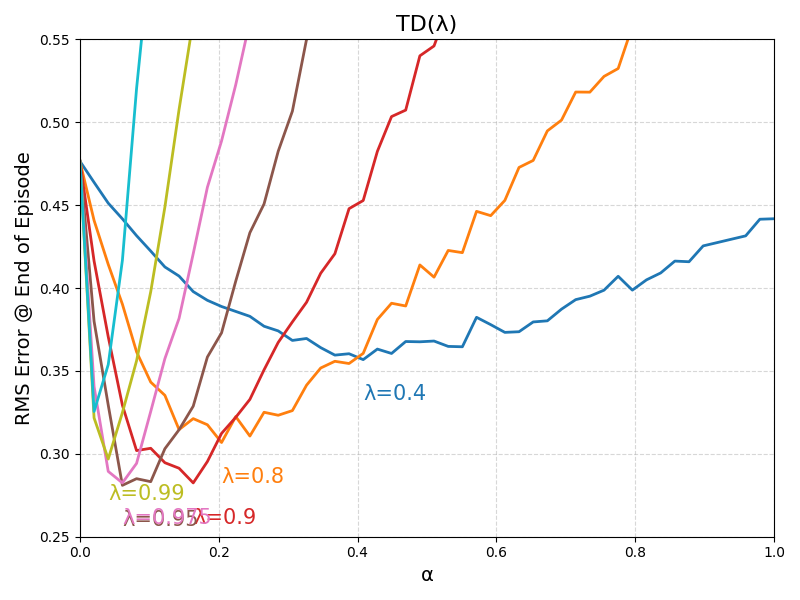
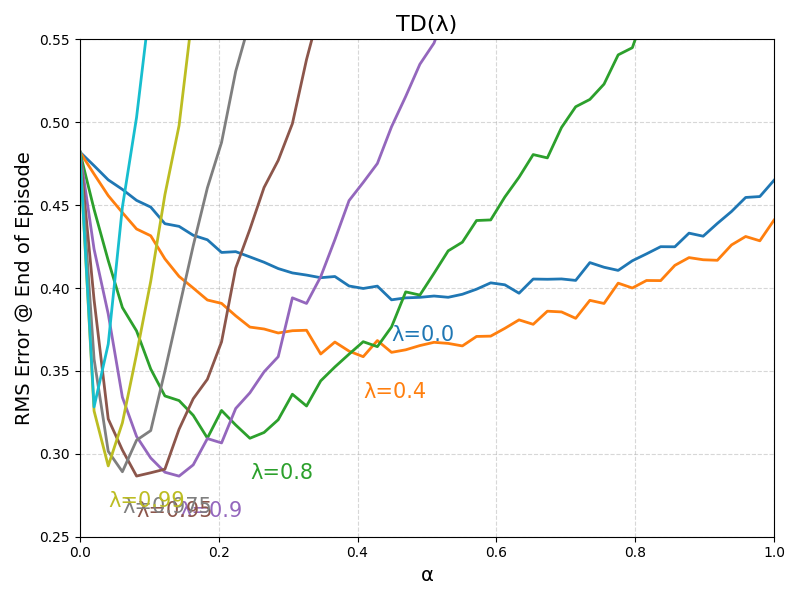
WIP: implemented offline lambda-return algorithm. Complete fig 12.6 experiment.

diff --git a/eligibility_traces/examples_fig_12.6.py b/eligibility_traces/examples_fig_12.6.py
@@ -1,7 +1,7 @@
 """
     Run the experiment shown on Fig 12.6
 """
-
+from joblib import Parallel, delayed
 from itertools import product
 from tqdm import tqdm
 import numpy as np
@@ -126,89 +126,224 @@ class TD_lambda:
         # Update weights
         self.w = self.w + self.alpha * tde * self.z
 
-def td_lamba_figure(
+
+class OfflineLambdaReturn:
+    def __init__(
+            self,
+            gamma: float,
+            alpha: float,
+            lam: float,
+            n_states: int
+    ):
+        assert 0 <= lam <= 1, f'Expected: 0 <= lam <= 1, got lam={lam}'
+        assert 0 <= alpha <= 1, f'Expected: 0 <= alpha <= 1, got lam={alpha}'
+        assert 0 <= gamma <= 1, f'Expected: 0 <= gamma <= 1, got lam={gamma}'
+        assert n_states > 0
+
+        self.n_states = n_states
+        self.gamma = gamma
+        self.alpha = alpha
+        self.lam = lam
+        self.w = None
+        self.reset_weights()
+        self.t = 0
+        self.buffer = []
+
+    def reset_weights(self):
+        self.w = np.ones(self.n_states, dtype=np.float32) * 0.5 # Per example 7.1
+
+    def reset(self):
+        self.t = 0
+        self.buffer.clear()
+
+    def v_fn(self, s):
+        x = feature_extractor(s, self.n_states)
+        return np.dot(x, self.w)
+
+    def step(self, s, r, sp, done):
+        self.buffer.append((s, r, sp, done))
+        if done:
+            self.learn()
+            self.buffer.clear()
+
+    def learn(self):
+        T = len(self.buffer)
+
+        def Gt_fn(t):
+            assert t >= 0
+
+            if t < T:
+                return sum(
+                    [(self.gamma ** i) * r for i, (s, r, sp, done) in
+                     enumerate(self.buffer[t:])]
+                )
+            else:
+                return 0.
+
+        def Gt_n_fn(t, n):
+            Gt_r = sum([
+                (self.gamma ** i) * r
+                for i, (s, r, sp, done) in enumerate(self.buffer[t:t + n])]
+            )
+
+            return Gt_r + (self.gamma ** n) * self.v_fn(self.buffer[t + n][0])
+
+
+        for t in range(T):
+
+            # ---- (12.3) ----
+            Gtlam = (1. - self.lam) * sum(
+                [
+                    ((self.lam) ** (n - 1)) * Gt_n_fn(t, n)
+                    for n in range(1, T - t)
+                ]
+            ) + (self.lam ** (T - t - 1)) * Gt_fn(t)
+            # --------------
+
+            s = self.buffer[t][0]
+            v = self.v_fn(s)
+            grad_w = feature_extractor(s, n_states=self.n_states)
+            self.w += self.alpha * (Gtlam - v) * grad_w
+
+
+def run_one_experiment(model_type: str, alpha, lam, n_states, n_episodes, true_values, gamma=0.99):
+    """
+    Run exactly ONE “experiment”:
+    - instantiate a fresh MRPX environment
+    - instantiate an OfflineLambdaReturn with (alpha, lam)
+    - run for n_episodes, collecting RMS error at episode end
+    - return the *average* RMS‐error over those n_episodes
+    """
+    env = MRPX(n_states)
+
+    if model_type == 'offline_lambda':
+        estimator = OfflineLambdaReturn(
+            alpha=alpha,
+            lam=lam,
+            gamma=gamma,
+            n_states=n_states + 1  # +1 if MRPX reserves an extra terminal index
+        )
+
+    elif model_type == 'td_lambda':
+        estimator = TD_lambda(
+            alpha=alpha,
+            lam=lam,
+            gamma=gamma,
+            n_states=n_states + 1  # +1 for terminal in MRPX
+        )
+    else:
+        raise NotImplemented
+
+    rms_errors = []
+    for _ in range(n_episodes):
+        # pick a random start state in [0 .. n_states‐1]
+        sinit = np.random.randint(0, n_states)
+        s = env.reset(initial_state=sinit)
+        done = False
+
+        while not done:
+            r, sp, done = env.step()
+            estimator.step(s=s, r=r, sp=sp, done=done)
+            s = sp
+
+        # at episode end, compute RMS‐error across all non‐terminal states
+        se = []
+        for state in range(n_states):
+            se.append((true_values[state] - estimator.v_fn(state)) ** 2)
+        rms_errors.append(np.sqrt(np.mean(se)))
+
+    # return the mean RMS error over all n_episodes
+    return float(np.mean(rms_errors))
+
+
+def return_figure_parallel(
+        model_type: str,
         alphas,
         lambdas,
         n_experiments: int,
-        n_episodes = 10
+        n_episodes: int = 10
 ):
+    """
+    Exactly the same overall structure as your original, except:
+      – We precompute `true_values` once.
+      – We loop over (λ,α) combinations in serial (cheap).
+      – Inside each (λ,α) pair, we launch all n_experiments *in parallel*.
+
+    Returns
+    -------
+    results_array : np.ndarray of shape (len(lambdas), len(alphas))
+        entry [il, ia] = average RMS‐error over n_experiments, for λ=lambdas[il], α=alphas[ia].
+    """
+
     n_states = 19
-    # Just numerically estimate the values for each state
-    # if starting from that state
+    # 1) Precompute “ground truth” state‐values once (ensemble of 50 ests)
     true_values = MRPX.estimate_state_values(
         n_states=n_states,
         num_experiments=500
     )
 
-    results = {
-        (l, a): list() for l, a in product(lambdas, alphas)
-    }
+    # Prepare a 2D array to store final means
+    results_array = np.zeros((len(lambdas), len(alphas)), dtype=np.float64)
 
-    results_array = np.zeros((len(lambdas), len(alphas)))
-
-    for ia, a in enumerate(alphas):
-
-        for il, l in enumerate(lambdas):
-
-            for _ in tqdm(range(n_experiments), desc=f'alpha={a:.2f}, lambda={l: .2f}'):
-
-                env = MRPX(n_states)  # n_states random walk
-
-                estimator = TD_lambda(
-                    alpha=a,
-                    lam=l,
-                    gamma=0.99,
-                    n_states=n_states + 1  # +1 for terminal in MRPX
+    # 2) Loop (λ, α) in serial (this is cheap: just n_states‐grid combinations)
+    for ia, alpha in enumerate(alphas):
+        for il, lam in enumerate(lambdas):
+            # 3) Launch n_experiments calls of run_one_experiment(...) *in parallel*
+            #    Each call returns a single‐experiment‐average‐RMS.
+            #    We use n_jobs=-1 to utilize all CPU cores by default.
+            single_runs = Parallel(n_jobs=-1)(
+                delayed(run_one_experiment)(
+                    model_type=model_type,
+                    alpha=alpha,
+                    lam=lam,
+                    n_states=n_states,
+                    n_episodes=n_episodes,
+                    true_values=true_values,
+                    gamma=0.99
                 )
+                for _ in range(n_experiments)
+            )
 
-                terminal_rewards = []
-                errors = []
+            # 4) Average those n_experiments results to fill results_array
+            results_array[il, ia] = np.mean(single_runs)
 
-                for episode in range(n_episodes):
-                    sinit = np.random.randint(0, n_states)
-                    s = env.reset(initial_state=sinit)
-
-                    done = False
-
-                    while not done:
-                        r, sp, done = env.step()
-                        estimator.step(s=s, r=r, sp=sp, done=done)
-                        s = sp
-
-                    terminal_rewards.append(r)
-
-                    # Figure 12.6: RMS error
-                    # at the end
-                    # of the episode
-                    # over the first
-                    # 10 episodes
-                    state_errors = [
-                        (true_values[s] - estimator.v_fn(s)) ** 2
-                        for s in range(n_states)
-                    ]
-
-                    errors.append(np.sqrt(np.mean(state_errors)))
-
-                results[(l, a)].append(np.mean(errors))
-
-            # Average over experiments
-            results_array[il, ia] = np.mean(results[(l, a)])
+            print(f"{model_type}: Done α={alpha:.3f}, λ={lam:.3f} → {results_array[il, ia]:.4f}")
 
     return results_array
 
 
+
 if __name__ == '__main__':
     alphas = np.linspace(0, 1, num=50)
-    lambdas = [.4, .8, .9, .95, .975, .99, 1.]
+    lambdas = [0., .4, .8, .9, .95, .975, .99, 1.]
 
-    results = td_lamba_figure(
+    results = return_figure_parallel(
+        model_type='offline_lambda',
         alphas=alphas,
         lambdas=lambdas,
-        n_experiments = 100,
+        n_experiments=100,
         n_episodes=10
     )
 
-    plot_multi_curves(results, labels=lambdas, x=alphas)
+    plot_multi_curves(
+        results,
+        title='Offline λ-Return',
+        labels=lambdas,
+        x=alphas)
+
+    results = return_figure_parallel(
+        model_type='td_lambda',
+        alphas=alphas,
+        lambdas=lambdas,
+        n_experiments=100,
+        n_episodes=10
+    )
+
+    plot_multi_curves(
+        results,
+        title='TD(λ)',
+        labels=lambdas,
+        x=alphas)
 
     exit(0)
 

diff --git a/eligibility_traces/README.md b/eligibility_traces/README.md
@@ -267,9 +267,9 @@ sum of rewards starting from each respective state. I compute this numerically
 over 300 runs for each initial state for all states. The results are shown 
 in the table below:
 
-| TD($\lambda$)                                                               | Offline $\lambda$-return Algorithm |
-|-----------------------------------------------------------------------------|------------------------------------|
-| <img src="images/experiment_fig12.6_td_lambda.png" alt="Grid" width="350"/> |                                    |
+| TD($\lambda$)                                                               | Offline $\lambda$-return Algorithm                                                      |
+|-----------------------------------------------------------------------------|-----------------------------------------------------------------------------------------|
+| <img src="images/experiment_fig12.6_td_lambda.png" alt="Grid" width="350"/> | <img src="images/experiment_fig12.6_offline_lambda_return.png" alt="Grid" width="350"/> |
 
 One discrepancy between the graph above and the book is that in the case of
 TD($\lambda$) at $\alpha$ = 0, the error is approximately 0.47 while 
